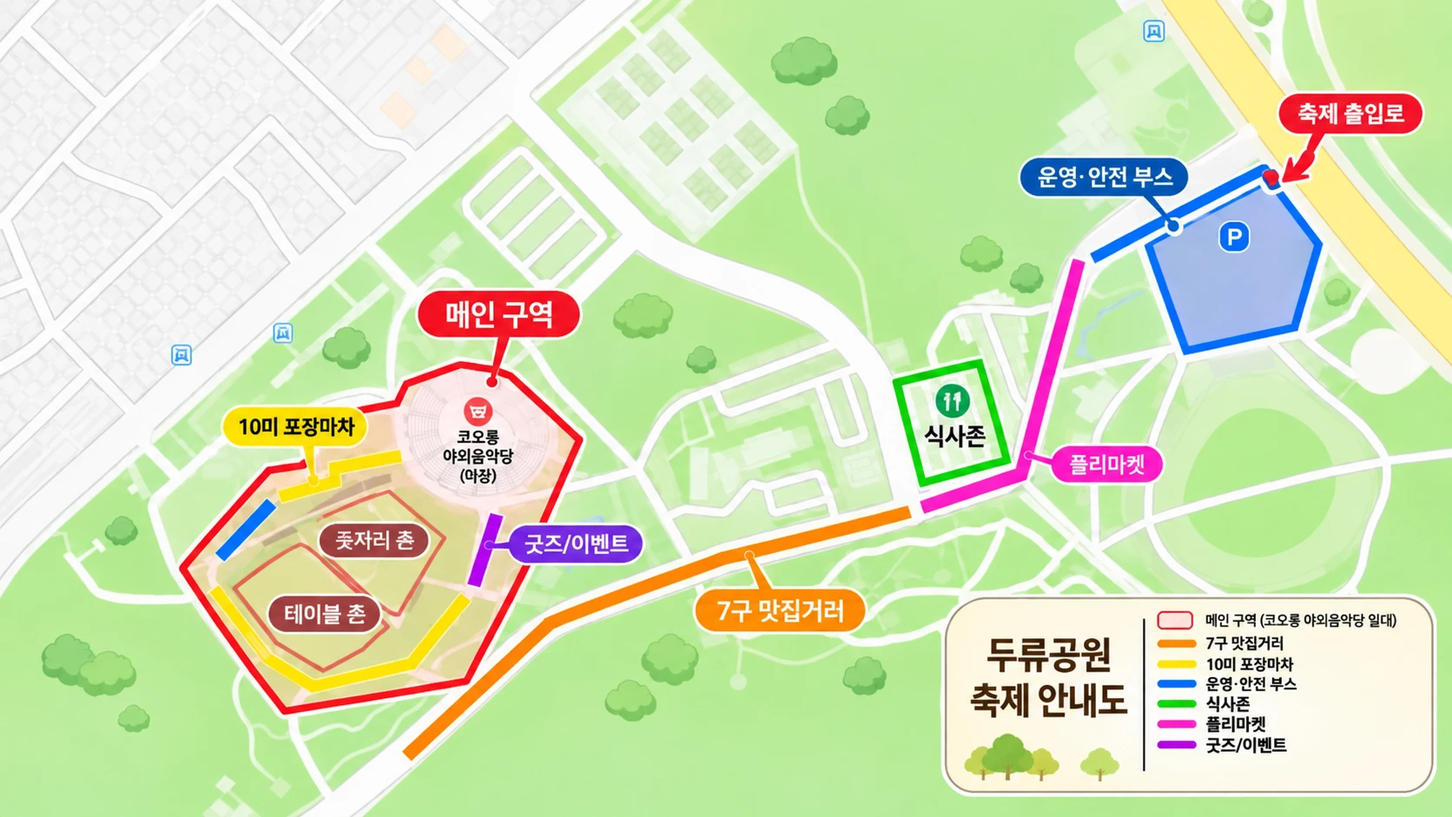
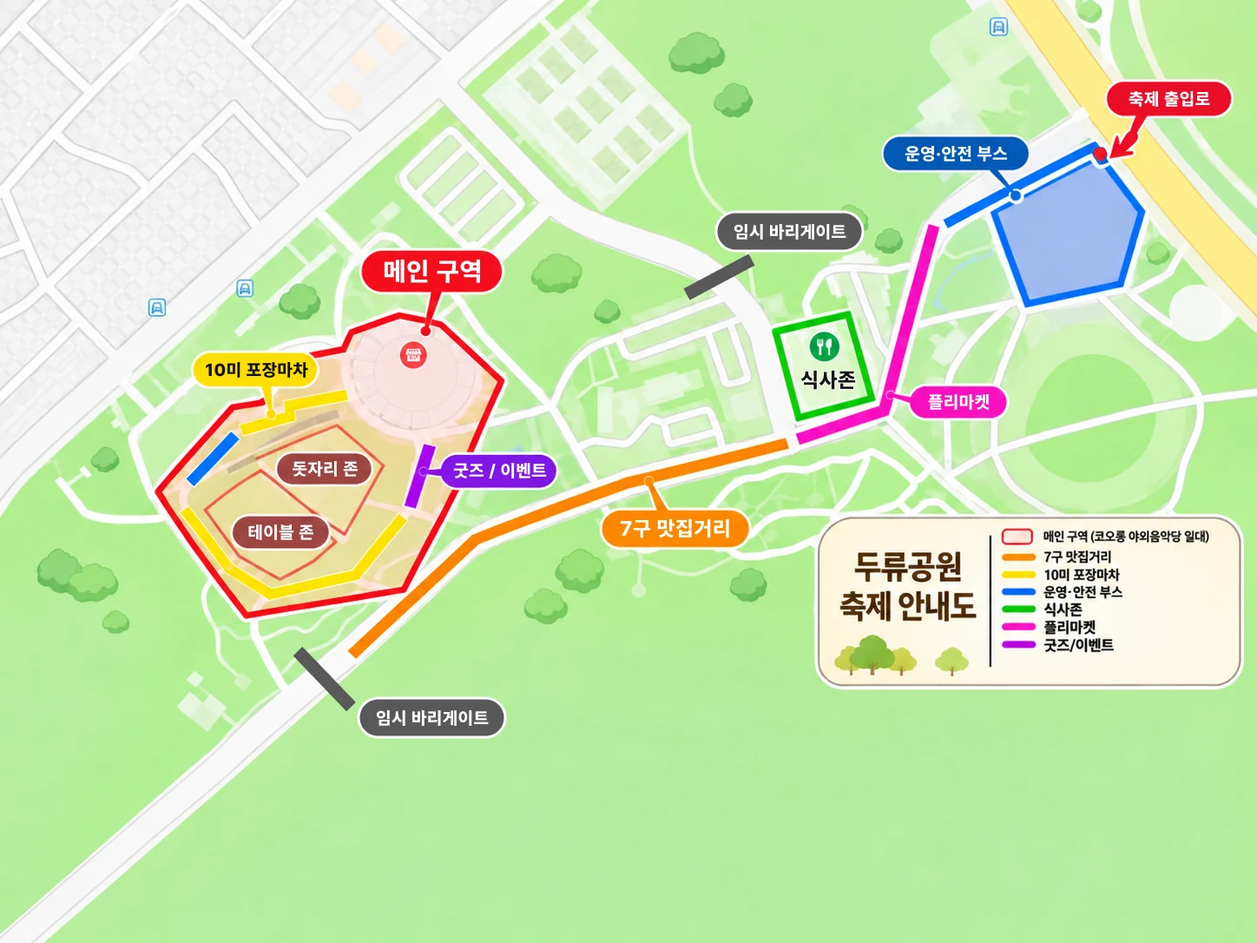
docs: P세부지침안V7 — P0-3 축제 안내도 수정본으로 교체

diff --git a/P세부지침안/P세부지침안V7/P세부지침안V7_묶음본.md b/P세부지침안/P세부지침안V7/P세부지침안V7_묶음본.md
@@ -8,6 +8,7 @@
 > ② B파트v4 반영 + 담당자 결정 — 스탬프는 축제장 안 운영 부스 이벤트(A·B·C가 각자 적립 방식), 축제장 밖은 협업 대구 가게·관광지·놀이공원 쿠폰(P0-1·P0-3·P0-6·P0-7), 쿠폰 기대효과 예측 규칙(P0-2 3-4), 식사존·굿즈 위치 B-1과 맞음·부스 수 변동 팀 승인·부스 규격·B 구역 불꽃 금지(P0-3), 업소 모집 일정 근거 B-5(P0-4), 10미·7구 수수료 규정 없음(P0-6). B-6 축제장 밖 스탬프는 P 값 유지, B파트 갱신 필요
 > ③ 담당자 결정 (2026-11-17) — 스탬프 판 완성 보상은 상품(매년 정함) + 쿠폰북(수록처는 내부 관리자가 후보 목록에서 선정), 업소 신청 사업계획서에 스탬프 활용 방안 포함 (P0-1·P0-3·P0-4·P0-6)
 > ④ A파트v3·B파트v5 반영 + 담당자 결정 (2026-11-17) — 개장 15:00 → **12:00**(팀 회의 2026-11-16 확정), 먹거리 12:00, 낮 12:00~19:00, 폐막 금·토 22:00 / **일요일만 20:00** 유지, 플리마켓은 C-5 값 15:00 유지(P0-4·P0-8·목차). B-6 축제장 밖 스탬프 폐지로 P0-1 미확정 9번 해결, B 스탬프 1회 구매당 1개, B-5 스탬프 활용 방안 반영(P0-1). E·B·C 파트 15:00 표기 갱신 필요(P0-4 7장 8~10번)
+> ⑤ 안내도 수정본 (2026-11-17) — P0-3 지도 이미지 교체: 돗자리 존·테이블 존 표기, 임시 바리게이트 2곳 추가, 주차장 P 표시 빠짐(P0-3 7장 11·15번)
 > **이전 V6 (V5와 달라진 점, 2026-11-16, 축제 이름 확정):** 축제 이름을 "대사투 페스티벌"(풀네임: 대구 사투리 토론 페스티벌)로 확정하고 표기 규칙 추가 (P0-1 2-0), 이름·큰 콘셉트는 고정하고 세부 콘셉트만 해마다 바꾸는 구조·양식과 2027 세부 콘셉트 후보 3개 추가 (P0-1 2-6, 치맥페스티벌 방식 참고), 금지 17번에 확정 이름과 줄여 쓰기 금지 반영 (P0-10). 다른 파트 변경 없음
 
 
@@ -530,13 +531,14 @@
 | 면적 | 1,589,339㎡ (두류공원 1,185,289㎡ + 이월드 404,050㎡) | 조사 | `[확인]` 대구시 공원현황 (통합본 5-1, 요약 기반) |
 | 사용 범위 | 코오롱 야외음악당 ~ 공원순환로 | 고정 | B-1 |
 
-### 2-2. 축제 지도 (팀 안내도, 2026-11-17)
+### 2-2. 축제 지도 (팀 안내도, 2026-11-17 수정본)
 
 [지도 이미지: P0-3_축제지도.webp — 노션에는 이 이미지를 따로 붙여 넣어 주세요]
 
 - 팀이 만든 **축제 전체 지도**예요. 구역 배치는 이 지도를 기준으로 해요.
 - 그림 안내도라서 **축척·실제 면적·길이는 이 지도에서 재지 않아요.** 실제 좌표·면적은 K(웹 지도)와 현장 실측(4-1)으로 채워요.
 - 지도가 바뀌면 이 파일의 지도 이미지와 2-3 표를 같이 고쳐요.
+- **수정본(2026-11-17 오후)에서 바뀐 점:** "줏자리 촌" → **돗자리 존**, "테이블 촌" → **테이블 존**, **임시 바리게이트 2곳** 표시(식사존 북서쪽 길, 7구 맛집거리 남서쪽 끝), 주차장의 **P 표시와 야외음악당 이름 글자가 빠짐** (7장 11번).
 
 ### 2-3. 사용 구역 (지도 기준)
 
@@ -544,22 +546,23 @@
 
 | 지도 색 | 구역 | 지도상 위치 | 프로그램·역할 | 최소 규모 | 담당 PART | 근거 |
 | --- | --- | --- | --- | --- | --- | --- |
-| 빨강 테두리 | **메인 구역** | 코오롱 야외음악당 일대 (지도 서쪽) | 사투리 토론 대회 메인 무대 + 아래 10미·굿즈·돗자리 존·테이블 촌을 품는 구역 | 메인 무대 1개 (무대 수는 회의 안건) | A | 안내도, A-9 |
+| 빨강 테두리 | **메인 구역** | 코오롱 야외음악당 일대 (지도 서쪽) | 사투리 토론 대회 메인 무대 + 아래 10미·굿즈·돗자리 존·테이블 존을 품는 구역 | 메인 무대 1개 (무대 수는 회의 안건) | A | 안내도, A-9 |
 | 노랑 | 10미 포장마차 | 메인 구역 안, 바깥 둘레(북서·남쪽 가장자리) | 대구 10미 포장마차 | 40동 | B | 안내도, B-1 |
-| 갈색 | 돗자리 존 (지도 이미지는 "줏자리 촌" → 수정 예정) | 메인 구역 안, 무대 앞 | 관람·휴식 (돗자리) | 확인 필요 | 확인 필요 | 안내도 |
-| 갈색 | 테이블 촌 | 메인 구역 안, 돗자리 존 남쪽 | 식음·휴식 테이블 | 확인 필요 | 확인 필요 | 안내도 |
+| 갈색 | 돗자리 존 | 메인 구역 안, 무대 앞 | 관람·휴식 (돗자리) | 확인 필요 | 확인 필요 | 안내도 |
+| 갈색 | 테이블 존 | 메인 구역 안, 돗자리 존 남쪽 | 식음·휴식 테이블 | 확인 필요 | 확인 필요 | 안내도 |
 | 보라 | 굿즈/이벤트 | 메인 구역 동쪽 가장자리 (7구 쪽) | **축제 운영진 부스로 쓸 예정** (팀 의견 2026-11-17). 굿즈 상점을 같이 둘지는 7장 7번 | 1곳 | H (굿즈는 D) | 안내도, 팀 의견, B-1 v4 |
 | 파랑 | 운영·안전 부스 | ① 축제 출입로 옆 진입 도로 ② 메인 구역 안 서쪽 | 안내·안전·응급, **스탬프 이벤트**(스탬프 판 완성 → 상품 + 쿠폰북 지급, 담당자 결정 2026-11-17) | 2곳 | H (스탬프 이벤트 담당은 7장 13번) | 안내도, 담당자 결정 |
 | 주황 | 7구 맛집거리 | 공원순환로, 메인 구역 남동쪽을 지나 식사존 앞까지 | 대구 7구 맛집거리 | 50동 + 제과점 추가 | B | 안내도, B-1 |
 | 분홍 | 플리마켓 | 7구 맛집거리 끝에서 북쪽 출입로 방향으로 이어진 길 | 소상공인 플리마켓 | 15동 (판매 12 + 체험·협업 3) | C | 안내도, C-1 |
 | 초록 | 식사존 | 7구 맛집거리·플리마켓이 만나는 곳 북쪽 | 7구 맛집거리 음식 먹는 공간 | 확인 필요 | 확인 필요 (B 관할 아님, B-1 2-1-2) | 안내도, B-1 |
 | 빨강 점 | 축제 출입로 (주 출입로) | 지도 북동쪽 큰길 쪽, 주차장 옆 | 큰 출입로. 입·퇴장 | 1곳 (보조 출입구는 7장 9번) | H | 안내도, 팀 의견 2026-11-17 |
-| (지도 표시 없음) | 비상 차량 이동로 | 지도상 **테니스장 쪽의 막아 둔 길을 열어서** 사용 (예정) | 구급·소방 차량 이동 | 1곳 | H | 팀 의견 2026-11-17 |
-| 파랑 면 | 주차장 (P) | 출입로 안쪽 | 방문객·운영 주차 | 면수 확인 안 됨 | H | 안내도 |
+| (지도 표시 없음) | 비상 차량 이동로 | 지도상 **테니스장 쪽의 막아 둔 길을 열어서** 사용 (예정). 수정본의 임시 바리게이트 ①이 그 길로 보임 `[해석]` | 구급·소방 차량 이동 | 1곳 | H | 팀 의견 2026-11-17 |
+| 회색 막대 | 임시 바리게이트 | ① 식사존 북서쪽, 테니스장 쪽으로 가는 길 ② 7구 맛집거리 남서쪽 끝 길 | 축제장 밖 차량·통행 막기. ①은 비상 차량 이동로로 열 곳으로 봄 `[해석]` | 2곳 | H | 안내도 수정본 |
+| 파랑 면 | 주차장 (이전 안내도의 P) | 출입로 안쪽 | 방문객·운영 주차. 수정본에는 P 표시가 없음 | 면수 확인 안 됨 | H | 안내도 (첫 판) |
 | **합계 (부스)** | | | | **105동 + 제과점 + 운영진 부스(굿즈/이벤트) 1곳 + 운영·안전 부스 2곳** (굿즈 상점 위치는 7장 7번) | | |
 
 - 부스 수는 **최소 기준**이에요. 첫해는 최소 규모로 시작하고, 판매·대기·방문객 데이터로 매년 조정해요 (B-1).
-- 구역의 **총 부스 수를 늘리거나 줄이려면 팀 승인**이 필요해요. 같은 총량 안에서 옮기는 재배치(예: 10미 존 안 돗자리 존 ↔ 테이블 촌)는 B 담당 확인으로 해요 (B-1 3절 6번, 2-1-3).
+- 구역의 **총 부스 수를 늘리거나 줄이려면 팀 승인**이 필요해요. 같은 총량 안에서 옮기는 재배치(예: 10미 존 안 돗자리 존 ↔ 테이블 존)는 B 담당 확인으로 해요 (B-1 3절 6번, 2-1-3).
 - 부스 규격: 음식 부스(10미·7구·제과점) 5m × 5m, 플리마켓 부스 3m × 3m (B-1 2-1-1). 통로 폭은 K 좌표 확정 뒤 정해요.
 - 구역 역할은 고정이고, 구역 안 부스 배치는 조건부로 바꿀 수 있어요 (B-1 5절).
 - "확인 필요"로 둔 칸은 7장 회의 안건이에요. 에이전트가 임의로 채우지 않아요.
@@ -590,7 +593,7 @@
 | 우리 구역 | 치맥에서 같은 곳 | 값 | 라벨·출처 |
 | --- | --- | --- | --- |
 | 메인 구역 (코오롱 야외음악당) | 코오롱 야외음악당 — 2024 '치맥 선셋 가든', 2025 '에그돔', 2026 '치상낙원 EGG섬' | 대지면적 **32,330㎡**, 고정 객석 **1,080석**, 최대 수용 **27,000명** | `[확인]` 대구문화예술회관 공식 영문 안내 (Kolon Open Air Music Hall) |
-| 메인 구역 잔디 (돗자리 존·테이블 촌) | 같은 곳 | 잔디광장 **23,141㎡(7,000평)** — 한국어 소개글은 "1만여 평"으로 달라요 | `[확인·출처 불일치]` 대구문화예술회관 영문 안내 / 한국어 관광 소개. 관리 주체에 확인 필요 |
+| 메인 구역 잔디 (돗자리 존·테이블 존) | 같은 곳 | 잔디광장 **23,141㎡(7,000평)** — 한국어 소개글은 "1만여 평"으로 달라요 | `[확인·출처 불일치]` 대구문화예술회관 영문 안내 / 한국어 관광 소개. 관리 주체에 확인 필요 |
 | 메인 구역 객석 운영 | 2026 야외음악당 1천 석 무료 좌석, 티켓링크 '무료 우선입장제' | 1,000석 | `[확인]` 2026 언론 보도 |
 | 7구 맛집거리·플리마켓 (공원순환로) | 2026 '두류공원 로드 일대' — K-치맥 스트리트, 웰컴로드, 놀이동산, 플리마켓존 | **공개 자료 없음 → 지도에서 직접 잼 (2-5-4)** | 공원 외곽 산책로 한 바퀴 약 4.5km라는 러닝 안내는 있지만 공원순환로 길이인지 불분명 `[확인 안 됨]` |
 | 7구 맛집거리 필요 길이 | — | 50동 + 제과점 × 5m = **약 255m 이상(한쪽 줄)**, 양쪽 줄이면 **약 130m** | `[추정]` B-1 부스 규격 5m × 5m, 부스 사이 간격·통로 제외 |
@@ -606,13 +609,13 @@
 | 치맥 연도 | 그늘·냉방 시설 | 위치 | 우리 구역에 대응 | 출처 |
 | --- | --- | --- | --- | --- |
 | 2017 | 쿨링포그 로드 2곳 | 위치 미기재 | 7구 맛집거리·플리마켓 길 | 뉴시스 2017-07-20 |
-| 2024 | 하와이안 아이스펍: TFS 텐트(더위·비 막음) + 실링팬 + 공조 순환구 | 2.28 주차장 (우리 미사용 구역) | 방식만 참고 → 식사존·테이블 촌 | 이코노미스트 2024-06 |
+| 2024 | 하와이안 아이스펍: TFS 텐트(더위·비 막음) + 실링팬 + 공조 순환구 | 2.28 주차장 (우리 미사용 구역) | 방식만 참고 → 식사존·테이블 존 | 이코노미스트 2024-06 |
 | 2025 | 그늘막, 쿨링포그, 살수차 / 냉방쉼터 확대 | 행사장 전체 (위치·수량 미기재) | 전 구역 | 경북매일 2025-07-01·07-03 |
-| 2025 | **에그돔**: 달걀 모양 대형 투명 돔, 가족이 시원하게 음식·음악 즐김 | **코오롱 야외음악당** | 메인 구역 (돗자리 존·테이블 촌) | 경북매일 2025-07-03 |
+| 2025 | **에그돔**: 달걀 모양 대형 투명 돔, 가족이 시원하게 음식·음악 즐김 | **코오롱 야외음악당** | 메인 구역 (돗자리 존·테이블 존) | 경북매일 2025-07-03 |
 | 2026 | **치상낙원 EGG섬**: "우천·폭염에도 쾌적하게" (2025 만족도 1위 공간) | **코오롱 야외음악당** | 메인 구역 | 2026 언론 보도 |
 | 2026 | 쿨링포그 확충, 냉방쉼터 | 2·28 자유광장과 두류공원 곳곳 | 7구·플리마켓 길, 식사존 | 2026 언론 보도 |
 
-- `[해석]` 치맥은 **야외음악당에 덮개 있는 대형 공간(에그돔·EGG섬)**을 두고, **길(로드) 쪽은 쿨링포그·그늘막**으로 대응했어요. 우리에게 옮기면: 메인 구역 돗자리 존·테이블 촌 일부를 덮개 있는 그늘·냉방 공간으로, 7구 맛집거리·플리마켓 길과 식사존은 쿨링포그·그늘막으로 하는 안이에요. **확정 아님 — 7장 3번.**
+- `[해석]` 치맥은 **야외음악당에 덮개 있는 대형 공간(에그돔·EGG섬)**을 두고, **길(로드) 쪽은 쿨링포그·그늘막**으로 대응했어요. 우리에게 옮기면: 메인 구역 돗자리 존·테이블 존 일부를 덮개 있는 그늘·냉방 공간으로, 7구 맛집거리·플리마켓 길과 식사존은 쿨링포그·그늘막으로 하는 안이에요. **확정 아님 — 7장 3번.**
 - 그늘막·쿨링포그의 수량·간격, 에그돔 크기는 찾지 못했어요.
 
 #### 2-5-3. 구역끼리 잇는 방식 (7구 맛집거리 ↔ 메인 구역)
@@ -659,7 +662,7 @@
 
 ### 4-1. 구역별 확인 항목
 
-| 확인 항목 | 굿즈/이벤트 | 메인 구역 무대 | 메인 구역 (10미·돗자리·테이블 촌) | 공원순환로 (7구·플리마켓·식사존) | 확인할 곳 |
+| 확인 항목 | 굿즈/이벤트 | 메인 구역 무대 | 메인 구역 (10미·돗자리·테이블 존) | 공원순환로 (7구·플리마켓·식사존) | 확인할 곳 |
 | --- | --- | --- | --- | --- | --- |
 | 면적·길이 | | 음악당 대지 32,330㎡ (2-5-1) | 잔디 23,141㎡ 또는 1만여 평 (불일치), 10미 둘레 길이는 지도 거리 재기 (2-5-4) | 지도 거리 재기로 먼저 채움 (2-5-4), 필요 길이 130~255m+ `[추정]` | 지도 거리 재기 → 두류공원관리소(대관·답사 때), 대구문화예술회관 |
 | 대관 조건·사용료·신청 시기 | | | | | 두류공원관리소, 코오롱 야외음악당 운영 주체 |
@@ -694,14 +697,14 @@
 | G 관광 | 교통, 숙박 이동, 시티투어 정류장 |
 | H 운영 | 수용 규모 참고값, 안전관리계획 범위, 전기·급수·차량 통제 |
 | K 웹 | 2-2 안내도와 2-3 구역 이름 (웹 지도도 같은 이름·색 사용) |
-| E 부대 프로그램 | 굿즈/이벤트 구역의 "이벤트" 내용, 돗자리·테이블 촌 낮 시간 활용 |
+| E 부대 프로그램 | 굿즈/이벤트 구역의 "이벤트" 내용, 돗자리·테이블 존 낮 시간 활용 |
 
 ## 6. 기본 지침·다른 문서와 다른 점
 
 | 항목 | 이 파일 | 다른 문서 | 처리 |
 | --- | --- | --- | --- |
 | 구역 구성 | 팀 안내도: 메인 구역·10미·7구·플리마켓·식사존·굿즈/이벤트·운영·안전 부스 (2·28 자유광장 미사용) | 기본 지침 v1.1 1장: 메인 무대·포장마차·플리마켓·휴게·그늘 4구역 | 안내도 우선. 그늘·냉방 공간은 안내도에 따로 없음 (7장 3번) |
-| 식음·휴게 공간 | 안내도에 식사존·테이블 촌·돗자리 존 있음 | B파트v5 B-1: 식사존은 확정, B 관할은 아님 ("두지 않음"은 폐기) | 안내도와 B-1이 맞음. B파트가 테이블·휴게 존을 두는 쪽으로 한 번 더 고칠 예정 → 고친 뒤 전체 점검 (7장 6번) |
+| 식음·휴게 공간 | 안내도에 식사존·테이블 존·돗자리 존 있음 | B파트v5 B-1: 식사존은 확정, B 관할은 아님 ("두지 않음"은 폐기) | 안내도와 B-1이 맞음. B파트가 테이블·휴게 존을 두는 쪽으로 한 번 더 고칠 예정 → 고친 뒤 전체 점검 (7장 6번) |
 | 굿즈/이벤트 구역 쓰임 | 운영진 부스로 쓸 예정 (팀 의견 2026-11-17) | B파트v5 B-1: 메인 구역 — 굿즈/이벤트 존 (굿즈 상점) | **다시 열림**: 굿즈 상점을 같은 곳에 둘지, 옮길지 (7장 7번) |
 | 플리마켓 위치 | 공원순환로의 7구 맛집거리와 이어진 구간 (B-1) | P0 원래 표·중간발표 2: 야외음악당 뒤 체육공원 | **해결 (2026-11-12)**: C파트v2 C-1 결정(2026-11-10)으로 공원순환로 연결 구간 확정 |
 | 포장마차·장터 위치 | 음악당 둘레·공원순환로 | 2027 03_기획안 초안: 2.28 자유광장 포장마차, 잔디광장 장터, 대구문화예술회관 실내 | 03은 P세부지침안 기준으로 업그레이드 예정 |
@@ -714,17 +717,19 @@
 | 3 | 그늘·냉방 공간 위치 | 안내도에 따로 표시 없음. 치맥 방식(2-5-2: 음악당은 덮개 있는 대형 공간, 길은 쿨링포그·그늘막)을 따를지, 수량·간격 | 팀 회의, H | 미정 |
 | 4 | 구역별 확인 항목 (4-1) | 전부 확인 안 됨 | H파트, 조사 담당 | 대관 신청 전 |
 | 5 | K 지도 문서 위치 | B-1에서도 링크 추가 필요로 표시. 웹 지도가 안내도와 같은 이름·색을 쓰는지 | K파트 담당 | 미정 |
-| 6 | 식사존·테이블 촌·돗자리 존 담당 파트 | B파트가 테이블·휴게 존을 두는 쪽으로 다시 고칠 예정. B 새 버전이 나오면 사용자가 전체 점검 요청 → 안내도·P0-3과 같은지 대조 | B 담당 → P0 담당 | B 새 버전 반영 때 |
+| 6 | 식사존·테이블 존·돗자리 존 담당 파트 | B파트가 테이블·휴게 존을 두는 쪽으로 다시 고칠 예정. B 새 버전이 나오면 사용자가 전체 점검 요청 → 안내도·P0-3과 같은지 대조 | B 담당 → P0 담당 | B 새 버전 반영 때 |
 | 7 | 굿즈/이벤트 구역 = 운영진 부스? 굿즈 상점 위치 | 팀 의견은 "운영진 부스로 쓸 것 같다"(2026-11-17). B-1 v4는 같은 곳을 굿즈 상점으로 둠. 굿즈 상점을 같이 둘지, 다른 곳(예: 주 출입로 쪽)으로 옮길지. 지도 범례 이름("굿즈/이벤트")도 바꿀지. 운영·안전 부스(파랑)와 역할 나누기 | 팀 회의, D·H 담당 | 미정 |
 | 9 | 보조 출입구·비상 차량 이동로 표시 | 주 출입로는 북동쪽 큰 출입로. 비상 차량은 테니스장 쪽 막아 둔 길을 열어 쓸 예정. 남은 것: 메인 구역(서쪽)·7구 남서쪽 끝에 보조 출입구를 둘지, 지도에 비상 이동로를 그릴지, 테니스장 쪽 길 개방 허가 | H 담당, 두류공원관리소 | 안전관리계획 전 |
 | 10 | 7구 맛집거리 ↔ 메인 구역 연결 | 치맥 도면은 구하지 않음. 안내도에 연결 구간을 그리고 갈림길 안내판을 둠 (2-5-3). 남은 것: 안내도에 그리기, 안내판 위치·문구 | 지도 담당, H·F | 다음 지도 수정 때 |
 | 14 | 공원순환로·10미 둘레 길이 | 지도 거리 재기로 대략 길이를 먼저 잼 (2-5-4). 필요 길이보다 짧으면 부스 배치 조정 | P0 담당 또는 지도 담당 → 대관 때 두류공원관리소 | 지도 거리 재기: 다음 작업 때 / 실측: 대관 신청 전 |
-| 11 | 주차장 | 안내도의 P가 방문객 주차장인지 운영 차량 전용인지, 면수 | H 담당 | 미정 |
+| 11 | 주차장 | 수정본 안내도에서 출입로 안쪽 파랑 면의 P 표시가 빠짐. 계속 주차장인지, 다른 용도(운영·안전 부스 구역 등)인지. 주차장이면 방문객용인지 운영 차량 전용인지, 면수 | 지도 담당, H 담당 | 미정 |
+| 15 | 임시 바리게이트 | 수정본에 2곳 표시. ①을 비상 차량 이동로로 여는 곳이 맞는지, ②(7구 남서쪽 끝)를 보조 출입구로 쓸지 (9번과 연결), 바리게이트 관리 인력 | H 담당, 팀 회의 | 미정 |
 | 12 | 안내도 제목 | "두류공원 축제 안내도"에 축제 이름(대사투 페스티벌)이 없음. 방문객용으로 쓸 때 이름 넣을지 | F·지도 담당 | 홍보물 제작 전 |
 | 13 | 스탬프 이벤트 위치 | 운영 부스에서 하기로 함(담당자 결정 2026-11-17). 운영·안전 부스 2곳 중 어디서 할지, 안내·응급 업무와 줄이 겹치지 않게 할지 | H 담당, 팀 회의 | 미정 |
 
 **해결된 항목 (2026-11-17)**
-- "줏자리 촌" 표기 → "돗자리 존"으로 통일. 지도 이미지는 지도 담당이 바꿀 예정
+- "줏자리 촌" 표기 → "돗자리 존"으로 통일. 지도 이미지도 수정본으로 바꿈 (2026-11-17)
+- "테이블 촌" 표기 → 수정본 안내도대로 "테이블 존"
 - 방문객 동선·사용 구역 표 → 지금 안내도 기준 그대로 둠 (팀 확인)
 - 치맥 연결 길 도면 → 구하지 않기로 함. 안내도·안내판으로 연결 (2-5-3)
 - 구역 확정 → 팀 축제 안내도(2-2) 기준으로 2-3 표를 다시 씀. 플리마켓 위치(C-1)와도 맞음
@@ -758,6 +763,7 @@
 | 2026-11-17 | v7: 치맥페스티벌 같은 구역 조사(2-5: 면적·길이, 그늘·냉방, 구역 연결) 추가, 4-1 음악당 면적·객석 채움. 팀 의견 반영: 돗자리 존 표기, 굿즈/이벤트 → 운영진 부스 예정, 주 출입로·비상 차량 이동로(테니스장 쪽), 7구↔메인 연결은 치맥 방식 참고 |
 | 2026-11-17 | v7: 팀 결정 — 치맥 도면은 구하지 않고 안내도 연결 구간·안내판·웹 지도로 연결(2-5-3), 공원순환로 길이는 지도 거리 재기 → 대관 때 실측(2-5-4), 7장 10번 줄이고 14번 추가 |
 | 2026-11-17 | v7: A파트v3·B파트v5 반영 — 출처를 A파트v3·B파트v5로 (B-1 구역 내용 변경 없음). 야간 귀가 기준 시각은 그대로 |
+| 2026-11-17 | v7: 안내도 수정본으로 지도 이미지 교체 — 돗자리 존·테이블 존 표기, 임시 바리게이트 2곳 행 추가, 주차장 P 표시 빠짐을 7장 11번에, 미확정 15번(바리게이트) 추가 |
 
 ---
 
@@ -1458,7 +1464,7 @@
 | 5. 구매·즐기기 | 낮 시간 그늘·냉방 공간, 아이 먹거리(맵지 않은 메뉴 표시), 사투리 주문 미션을 가족 놀이로, 미아 방지 | B, D, E, H |
 | 6. 공유·재방문 | 가족 사진 포토존(대키미·외지몽), 내년 알림 | D, F |
 
-**가장 막히는 단계 `[해석]`**: 5. 구매·즐기기의 **낮 시간**이에요. 축제가 12:00에 열어 한낮부터 가장 더운 낮 시간(12:00 ~ 19:00)이 이어지는데(P0-4) 핵심 경기는 저녁이고, 안내도에 식사존·테이블 촌·돗자리 존은 있지만 그늘·냉방 방식은 아직 정하지 않아 아이가 쉴 곳이 문제가 돼요 (P0-3 2-3·7장 3번).
+**가장 막히는 단계 `[해석]`**: 5. 구매·즐기기의 **낮 시간**이에요. 축제가 12:00에 열어 한낮부터 가장 더운 낮 시간(12:00 ~ 19:00)이 이어지는데(P0-4) 핵심 경기는 저녁이고, 안내도에 식사존·테이블 존·돗자리 존은 있지만 그늘·냉방 방식은 아직 정하지 않아 아이가 쉴 곳이 문제가 돼요 (P0-3 2-3·7장 3번).
 
 **근거로 쓸 수 있는 팀 자료 (가족 단위 직접 근거는 아님)**
 
@@ -1644,6 +1650,7 @@ journey_maps_v0의 감정 점수(−2~+2, 질적 표시)에서 가장 낮은 단
 | 2026-11-16 | v4 갱신: F 출처 경로를 main `세부지침안/F파트v1/`(참고자료 포함)로 고침. 내용 변경 없음 |
 | 2026-11-16 | v5: G파트v2 반영 — 6단계 축제장 밖 접점을 스탬프에서 쿠폰(G-3)으로, 메인 4유형 동선(G-2) 연결 |
 | 2026-11-17 | v7: A파트v3 반영 + 담당자 결정 — 개장 12:00에 맞춰 막히는 단계(낮 12:00~19:00)와 다음 날 오전 동선(개장 12:00 전) 수정 |
+| 2026-11-17 | v7: 안내도 수정본 표기에 맞춰 "테이블 촌" → "테이블 존" |
 
 ---
 
@@ -1889,3 +1896,4 @@ journey_maps_v0의 감정 점수(−2~+2, 질적 표시)에서 가장 낮은 단
 | 2026-11-16 | v6: 금지 17번에 확정된 축제 이름(대사투 페스티벌·풀네임)과 "줄여 쓰기" 금지를 넣음 |
 | 2026-11-17 | v7: B파트v4 대조 — 금지 목록과 겹치는 값 변경 없음(B-7 사투리 메뉴판·주문 미션 원칙 그대로). 출처만 B파트v4로 |
 | 2026-11-17 | v7: B파트v5 반영 — 출처를 B파트v5(커밋 6f3c670)로. 이 파일 값 변경 없음 |
+

diff --git a/P세부지침안/P세부지침안V7/P0-3_장소.md b/P세부지침안/P세부지침안V7/P0-3_장소.md
@@ -17,13 +17,14 @@
 | 면적 | 1,589,339㎡ (두류공원 1,185,289㎡ + 이월드 404,050㎡) | 조사 | `[확인]` 대구시 공원현황 (통합본 5-1, 요약 기반) |
 | 사용 범위 | 코오롱 야외음악당 ~ 공원순환로 | 고정 | B-1 |
 
-### 2-2. 축제 지도 (팀 안내도, 2026-11-17)
+### 2-2. 축제 지도 (팀 안내도, 2026-11-17 수정본)
 
 ![두류공원 축제 안내도 — 대사투 페스티벌 구역 배치](P0-3_축제지도.webp)
 
 - 팀이 만든 **축제 전체 지도**예요. 구역 배치는 이 지도를 기준으로 해요.
 - 그림 안내도라서 **축척·실제 면적·길이는 이 지도에서 재지 않아요.** 실제 좌표·면적은 K(웹 지도)와 현장 실측(4-1)으로 채워요.
 - 지도가 바뀌면 이 파일의 지도 이미지와 2-3 표를 같이 고쳐요.
+- **수정본(2026-11-17 오후)에서 바뀐 점:** "줏자리 촌" → **돗자리 존**, "테이블 촌" → **테이블 존**, **임시 바리게이트 2곳** 표시(식사존 북서쪽 길, 7구 맛집거리 남서쪽 끝), 주차장의 **P 표시와 야외음악당 이름 글자가 빠짐** (7장 11번).
 
 ### 2-3. 사용 구역 (지도 기준)
 
@@ -31,22 +32,23 @@
 
 | 지도 색 | 구역 | 지도상 위치 | 프로그램·역할 | 최소 규모 | 담당 PART | 근거 |
 | --- | --- | --- | --- | --- | --- | --- |
-| 빨강 테두리 | **메인 구역** | 코오롱 야외음악당 일대 (지도 서쪽) | 사투리 토론 대회 메인 무대 + 아래 10미·굿즈·돗자리 존·테이블 촌을 품는 구역 | 메인 무대 1개 (무대 수는 회의 안건) | A | 안내도, A-9 |
+| 빨강 테두리 | **메인 구역** | 코오롱 야외음악당 일대 (지도 서쪽) | 사투리 토론 대회 메인 무대 + 아래 10미·굿즈·돗자리 존·테이블 존을 품는 구역 | 메인 무대 1개 (무대 수는 회의 안건) | A | 안내도, A-9 |
 | 노랑 | 10미 포장마차 | 메인 구역 안, 바깥 둘레(북서·남쪽 가장자리) | 대구 10미 포장마차 | 40동 | B | 안내도, B-1 |
-| 갈색 | 돗자리 존 (지도 이미지는 "줏자리 촌" → 수정 예정) | 메인 구역 안, 무대 앞 | 관람·휴식 (돗자리) | 확인 필요 | 확인 필요 | 안내도 |
-| 갈색 | 테이블 촌 | 메인 구역 안, 돗자리 존 남쪽 | 식음·휴식 테이블 | 확인 필요 | 확인 필요 | 안내도 |
+| 갈색 | 돗자리 존 | 메인 구역 안, 무대 앞 | 관람·휴식 (돗자리) | 확인 필요 | 확인 필요 | 안내도 |
+| 갈색 | 테이블 존 | 메인 구역 안, 돗자리 존 남쪽 | 식음·휴식 테이블 | 확인 필요 | 확인 필요 | 안내도 |
 | 보라 | 굿즈/이벤트 | 메인 구역 동쪽 가장자리 (7구 쪽) | **축제 운영진 부스로 쓸 예정** (팀 의견 2026-11-17). 굿즈 상점을 같이 둘지는 7장 7번 | 1곳 | H (굿즈는 D) | 안내도, 팀 의견, B-1 v4 |
 | 파랑 | 운영·안전 부스 | ① 축제 출입로 옆 진입 도로 ② 메인 구역 안 서쪽 | 안내·안전·응급, **스탬프 이벤트**(스탬프 판 완성 → 상품 + 쿠폰북 지급, 담당자 결정 2026-11-17) | 2곳 | H (스탬프 이벤트 담당은 7장 13번) | 안내도, 담당자 결정 |
 | 주황 | 7구 맛집거리 | 공원순환로, 메인 구역 남동쪽을 지나 식사존 앞까지 | 대구 7구 맛집거리 | 50동 + 제과점 추가 | B | 안내도, B-1 |
 | 분홍 | 플리마켓 | 7구 맛집거리 끝에서 북쪽 출입로 방향으로 이어진 길 | 소상공인 플리마켓 | 15동 (판매 12 + 체험·협업 3) | C | 안내도, C-1 |
 | 초록 | 식사존 | 7구 맛집거리·플리마켓이 만나는 곳 북쪽 | 7구 맛집거리 음식 먹는 공간 | 확인 필요 | 확인 필요 (B 관할 아님, B-1 2-1-2) | 안내도, B-1 |
 | 빨강 점 | 축제 출입로 (주 출입로) | 지도 북동쪽 큰길 쪽, 주차장 옆 | 큰 출입로. 입·퇴장 | 1곳 (보조 출입구는 7장 9번) | H | 안내도, 팀 의견 2026-11-17 |
-| (지도 표시 없음) | 비상 차량 이동로 | 지도상 **테니스장 쪽의 막아 둔 길을 열어서** 사용 (예정) | 구급·소방 차량 이동 | 1곳 | H | 팀 의견 2026-11-17 |
-| 파랑 면 | 주차장 (P) | 출입로 안쪽 | 방문객·운영 주차 | 면수 확인 안 됨 | H | 안내도 |
+| (지도 표시 없음) | 비상 차량 이동로 | 지도상 **테니스장 쪽의 막아 둔 길을 열어서** 사용 (예정). 수정본의 임시 바리게이트 ①이 그 길로 보임 `[해석]` | 구급·소방 차량 이동 | 1곳 | H | 팀 의견 2026-11-17 |
+| 회색 막대 | 임시 바리게이트 | ① 식사존 북서쪽, 테니스장 쪽으로 가는 길 ② 7구 맛집거리 남서쪽 끝 길 | 축제장 밖 차량·통행 막기. ①은 비상 차량 이동로로 열 곳으로 봄 `[해석]` | 2곳 | H | 안내도 수정본 |
+| 파랑 면 | 주차장 (이전 안내도의 P) | 출입로 안쪽 | 방문객·운영 주차. 수정본에는 P 표시가 없음 | 면수 확인 안 됨 | H | 안내도 (첫 판) |
 | **합계 (부스)** | | | | **105동 + 제과점 + 운영진 부스(굿즈/이벤트) 1곳 + 운영·안전 부스 2곳** (굿즈 상점 위치는 7장 7번) | | |
 
 - 부스 수는 **최소 기준**이에요. 첫해는 최소 규모로 시작하고, 판매·대기·방문객 데이터로 매년 조정해요 (B-1).
-- 구역의 **총 부스 수를 늘리거나 줄이려면 팀 승인**이 필요해요. 같은 총량 안에서 옮기는 재배치(예: 10미 존 안 돗자리 존 ↔ 테이블 촌)는 B 담당 확인으로 해요 (B-1 3절 6번, 2-1-3).
+- 구역의 **총 부스 수를 늘리거나 줄이려면 팀 승인**이 필요해요. 같은 총량 안에서 옮기는 재배치(예: 10미 존 안 돗자리 존 ↔ 테이블 존)는 B 담당 확인으로 해요 (B-1 3절 6번, 2-1-3).
 - 부스 규격: 음식 부스(10미·7구·제과점) 5m × 5m, 플리마켓 부스 3m × 3m (B-1 2-1-1). 통로 폭은 K 좌표 확정 뒤 정해요.
 - 구역 역할은 고정이고, 구역 안 부스 배치는 조건부로 바꿀 수 있어요 (B-1 5절).
 - "확인 필요"로 둔 칸은 7장 회의 안건이에요. 에이전트가 임의로 채우지 않아요.
@@ -77,7 +79,7 @@
 | 우리 구역 | 치맥에서 같은 곳 | 값 | 라벨·출처 |
 | --- | --- | --- | --- |
 | 메인 구역 (코오롱 야외음악당) | 코오롱 야외음악당 — 2024 '치맥 선셋 가든', 2025 '에그돔', 2026 '치상낙원 EGG섬' | 대지면적 **32,330㎡**, 고정 객석 **1,080석**, 최대 수용 **27,000명** | `[확인]` 대구문화예술회관 공식 영문 안내 (Kolon Open Air Music Hall) |
-| 메인 구역 잔디 (돗자리 존·테이블 촌) | 같은 곳 | 잔디광장 **23,141㎡(7,000평)** — 한국어 소개글은 "1만여 평"으로 달라요 | `[확인·출처 불일치]` 대구문화예술회관 영문 안내 / 한국어 관광 소개. 관리 주체에 확인 필요 |
+| 메인 구역 잔디 (돗자리 존·테이블 존) | 같은 곳 | 잔디광장 **23,141㎡(7,000평)** — 한국어 소개글은 "1만여 평"으로 달라요 | `[확인·출처 불일치]` 대구문화예술회관 영문 안내 / 한국어 관광 소개. 관리 주체에 확인 필요 |
 | 메인 구역 객석 운영 | 2026 야외음악당 1천 석 무료 좌석, 티켓링크 '무료 우선입장제' | 1,000석 | `[확인]` 2026 언론 보도 |
 | 7구 맛집거리·플리마켓 (공원순환로) | 2026 '두류공원 로드 일대' — K-치맥 스트리트, 웰컴로드, 놀이동산, 플리마켓존 | **공개 자료 없음 → 지도에서 직접 잼 (2-5-4)** | 공원 외곽 산책로 한 바퀴 약 4.5km라는 러닝 안내는 있지만 공원순환로 길이인지 불분명 `[확인 안 됨]` |
 | 7구 맛집거리 필요 길이 | — | 50동 + 제과점 × 5m = **약 255m 이상(한쪽 줄)**, 양쪽 줄이면 **약 130m** | `[추정]` B-1 부스 규격 5m × 5m, 부스 사이 간격·통로 제외 |
@@ -93,13 +95,13 @@
 | 치맥 연도 | 그늘·냉방 시설 | 위치 | 우리 구역에 대응 | 출처 |
 | --- | --- | --- | --- | --- |
 | 2017 | 쿨링포그 로드 2곳 | 위치 미기재 | 7구 맛집거리·플리마켓 길 | 뉴시스 2017-07-20 |
-| 2024 | 하와이안 아이스펍: TFS 텐트(더위·비 막음) + 실링팬 + 공조 순환구 | 2.28 주차장 (우리 미사용 구역) | 방식만 참고 → 식사존·테이블 촌 | 이코노미스트 2024-06 |
+| 2024 | 하와이안 아이스펍: TFS 텐트(더위·비 막음) + 실링팬 + 공조 순환구 | 2.28 주차장 (우리 미사용 구역) | 방식만 참고 → 식사존·테이블 존 | 이코노미스트 2024-06 |
 | 2025 | 그늘막, 쿨링포그, 살수차 / 냉방쉼터 확대 | 행사장 전체 (위치·수량 미기재) | 전 구역 | 경북매일 2025-07-01·07-03 |
-| 2025 | **에그돔**: 달걀 모양 대형 투명 돔, 가족이 시원하게 음식·음악 즐김 | **코오롱 야외음악당** | 메인 구역 (돗자리 존·테이블 촌) | 경북매일 2025-07-03 |
+| 2025 | **에그돔**: 달걀 모양 대형 투명 돔, 가족이 시원하게 음식·음악 즐김 | **코오롱 야외음악당** | 메인 구역 (돗자리 존·테이블 존) | 경북매일 2025-07-03 |
 | 2026 | **치상낙원 EGG섬**: "우천·폭염에도 쾌적하게" (2025 만족도 1위 공간) | **코오롱 야외음악당** | 메인 구역 | 2026 언론 보도 |
 | 2026 | 쿨링포그 확충, 냉방쉼터 | 2·28 자유광장과 두류공원 곳곳 | 7구·플리마켓 길, 식사존 | 2026 언론 보도 |
 
-- `[해석]` 치맥은 **야외음악당에 덮개 있는 대형 공간(에그돔·EGG섬)**을 두고, **길(로드) 쪽은 쿨링포그·그늘막**으로 대응했어요. 우리에게 옮기면: 메인 구역 돗자리 존·테이블 촌 일부를 덮개 있는 그늘·냉방 공간으로, 7구 맛집거리·플리마켓 길과 식사존은 쿨링포그·그늘막으로 하는 안이에요. **확정 아님 — 7장 3번.**
+- `[해석]` 치맥은 **야외음악당에 덮개 있는 대형 공간(에그돔·EGG섬)**을 두고, **길(로드) 쪽은 쿨링포그·그늘막**으로 대응했어요. 우리에게 옮기면: 메인 구역 돗자리 존·테이블 존 일부를 덮개 있는 그늘·냉방 공간으로, 7구 맛집거리·플리마켓 길과 식사존은 쿨링포그·그늘막으로 하는 안이에요. **확정 아님 — 7장 3번.**
 - 그늘막·쿨링포그의 수량·간격, 에그돔 크기는 찾지 못했어요.
 
 #### 2-5-3. 구역끼리 잇는 방식 (7구 맛집거리 ↔ 메인 구역)
@@ -146,7 +148,7 @@
 
 ### 4-1. 구역별 확인 항목
 
-| 확인 항목 | 굿즈/이벤트 | 메인 구역 무대 | 메인 구역 (10미·돗자리·테이블 촌) | 공원순환로 (7구·플리마켓·식사존) | 확인할 곳 |
+| 확인 항목 | 굿즈/이벤트 | 메인 구역 무대 | 메인 구역 (10미·돗자리·테이블 존) | 공원순환로 (7구·플리마켓·식사존) | 확인할 곳 |
 | --- | --- | --- | --- | --- | --- |
 | 면적·길이 | | 음악당 대지 32,330㎡ (2-5-1) | 잔디 23,141㎡ 또는 1만여 평 (불일치), 10미 둘레 길이는 지도 거리 재기 (2-5-4) | 지도 거리 재기로 먼저 채움 (2-5-4), 필요 길이 130~255m+ `[추정]` | 지도 거리 재기 → 두류공원관리소(대관·답사 때), 대구문화예술회관 |
 | 대관 조건·사용료·신청 시기 | | | | | 두류공원관리소, 코오롱 야외음악당 운영 주체 |
@@ -181,14 +183,14 @@
 | G 관광 | 교통, 숙박 이동, 시티투어 정류장 |
 | H 운영 | 수용 규모 참고값, 안전관리계획 범위, 전기·급수·차량 통제 |
 | K 웹 | 2-2 안내도와 2-3 구역 이름 (웹 지도도 같은 이름·색 사용) |
-| E 부대 프로그램 | 굿즈/이벤트 구역의 "이벤트" 내용, 돗자리·테이블 촌 낮 시간 활용 |
+| E 부대 프로그램 | 굿즈/이벤트 구역의 "이벤트" 내용, 돗자리·테이블 존 낮 시간 활용 |
 
 ## 6. 기본 지침·다른 문서와 다른 점
 
 | 항목 | 이 파일 | 다른 문서 | 처리 |
 | --- | --- | --- | --- |
 | 구역 구성 | 팀 안내도: 메인 구역·10미·7구·플리마켓·식사존·굿즈/이벤트·운영·안전 부스 (2·28 자유광장 미사용) | 기본 지침 v1.1 1장: 메인 무대·포장마차·플리마켓·휴게·그늘 4구역 | 안내도 우선. 그늘·냉방 공간은 안내도에 따로 없음 (7장 3번) |
-| 식음·휴게 공간 | 안내도에 식사존·테이블 촌·돗자리 존 있음 | B파트v5 B-1: 식사존은 확정, B 관할은 아님 ("두지 않음"은 폐기) | 안내도와 B-1이 맞음. B파트가 테이블·휴게 존을 두는 쪽으로 한 번 더 고칠 예정 → 고친 뒤 전체 점검 (7장 6번) |
+| 식음·휴게 공간 | 안내도에 식사존·테이블 존·돗자리 존 있음 | B파트v5 B-1: 식사존은 확정, B 관할은 아님 ("두지 않음"은 폐기) | 안내도와 B-1이 맞음. B파트가 테이블·휴게 존을 두는 쪽으로 한 번 더 고칠 예정 → 고친 뒤 전체 점검 (7장 6번) |
 | 굿즈/이벤트 구역 쓰임 | 운영진 부스로 쓸 예정 (팀 의견 2026-11-17) | B파트v5 B-1: 메인 구역 — 굿즈/이벤트 존 (굿즈 상점) | **다시 열림**: 굿즈 상점을 같은 곳에 둘지, 옮길지 (7장 7번) |
 | 플리마켓 위치 | 공원순환로의 7구 맛집거리와 이어진 구간 (B-1) | P0 원래 표·중간발표 2: 야외음악당 뒤 체육공원 | **해결 (2026-11-12)**: C파트v2 C-1 결정(2026-11-10)으로 공원순환로 연결 구간 확정 |
 | 포장마차·장터 위치 | 음악당 둘레·공원순환로 | 2027 03_기획안 초안: 2.28 자유광장 포장마차, 잔디광장 장터, 대구문화예술회관 실내 | 03은 P세부지침안 기준으로 업그레이드 예정 |
@@ -201,17 +203,19 @@
 | 3 | 그늘·냉방 공간 위치 | 안내도에 따로 표시 없음. 치맥 방식(2-5-2: 음악당은 덮개 있는 대형 공간, 길은 쿨링포그·그늘막)을 따를지, 수량·간격 | 팀 회의, H | 미정 |
 | 4 | 구역별 확인 항목 (4-1) | 전부 확인 안 됨 | H파트, 조사 담당 | 대관 신청 전 |
 | 5 | K 지도 문서 위치 | B-1에서도 링크 추가 필요로 표시. 웹 지도가 안내도와 같은 이름·색을 쓰는지 | K파트 담당 | 미정 |
-| 6 | 식사존·테이블 촌·돗자리 존 담당 파트 | B파트가 테이블·휴게 존을 두는 쪽으로 다시 고칠 예정. B 새 버전이 나오면 사용자가 전체 점검 요청 → 안내도·P0-3과 같은지 대조 | B 담당 → P0 담당 | B 새 버전 반영 때 |
+| 6 | 식사존·테이블 존·돗자리 존 담당 파트 | B파트가 테이블·휴게 존을 두는 쪽으로 다시 고칠 예정. B 새 버전이 나오면 사용자가 전체 점검 요청 → 안내도·P0-3과 같은지 대조 | B 담당 → P0 담당 | B 새 버전 반영 때 |
 | 7 | 굿즈/이벤트 구역 = 운영진 부스? 굿즈 상점 위치 | 팀 의견은 "운영진 부스로 쓸 것 같다"(2026-11-17). B-1 v4는 같은 곳을 굿즈 상점으로 둠. 굿즈 상점을 같이 둘지, 다른 곳(예: 주 출입로 쪽)으로 옮길지. 지도 범례 이름("굿즈/이벤트")도 바꿀지. 운영·안전 부스(파랑)와 역할 나누기 | 팀 회의, D·H 담당 | 미정 |
 | 9 | 보조 출입구·비상 차량 이동로 표시 | 주 출입로는 북동쪽 큰 출입로. 비상 차량은 테니스장 쪽 막아 둔 길을 열어 쓸 예정. 남은 것: 메인 구역(서쪽)·7구 남서쪽 끝에 보조 출입구를 둘지, 지도에 비상 이동로를 그릴지, 테니스장 쪽 길 개방 허가 | H 담당, 두류공원관리소 | 안전관리계획 전 |
 | 10 | 7구 맛집거리 ↔ 메인 구역 연결 | 치맥 도면은 구하지 않음. 안내도에 연결 구간을 그리고 갈림길 안내판을 둠 (2-5-3). 남은 것: 안내도에 그리기, 안내판 위치·문구 | 지도 담당, H·F | 다음 지도 수정 때 |
 | 14 | 공원순환로·10미 둘레 길이 | 지도 거리 재기로 대략 길이를 먼저 잼 (2-5-4). 필요 길이보다 짧으면 부스 배치 조정 | P0 담당 또는 지도 담당 → 대관 때 두류공원관리소 | 지도 거리 재기: 다음 작업 때 / 실측: 대관 신청 전 |
-| 11 | 주차장 | 안내도의 P가 방문객 주차장인지 운영 차량 전용인지, 면수 | H 담당 | 미정 |
+| 11 | 주차장 | 수정본 안내도에서 출입로 안쪽 파랑 면의 P 표시가 빠짐. 계속 주차장인지, 다른 용도(운영·안전 부스 구역 등)인지. 주차장이면 방문객용인지 운영 차량 전용인지, 면수 | 지도 담당, H 담당 | 미정 |
+| 15 | 임시 바리게이트 | 수정본에 2곳 표시. ①을 비상 차량 이동로로 여는 곳이 맞는지, ②(7구 남서쪽 끝)를 보조 출입구로 쓸지 (9번과 연결), 바리게이트 관리 인력 | H 담당, 팀 회의 | 미정 |
 | 12 | 안내도 제목 | "두류공원 축제 안내도"에 축제 이름(대사투 페스티벌)이 없음. 방문객용으로 쓸 때 이름 넣을지 | F·지도 담당 | 홍보물 제작 전 |
 | 13 | 스탬프 이벤트 위치 | 운영 부스에서 하기로 함(담당자 결정 2026-11-17). 운영·안전 부스 2곳 중 어디서 할지, 안내·응급 업무와 줄이 겹치지 않게 할지 | H 담당, 팀 회의 | 미정 |
 
 **해결된 항목 (2026-11-17)**
-- "줏자리 촌" 표기 → "돗자리 존"으로 통일. 지도 이미지는 지도 담당이 바꿀 예정
+- "줏자리 촌" 표기 → "돗자리 존"으로 통일. 지도 이미지도 수정본으로 바꿈 (2026-11-17)
+- "테이블 촌" 표기 → 수정본 안내도대로 "테이블 존"
 - 방문객 동선·사용 구역 표 → 지금 안내도 기준 그대로 둠 (팀 확인)
 - 치맥 연결 길 도면 → 구하지 않기로 함. 안내도·안내판으로 연결 (2-5-3)
 - 구역 확정 → 팀 축제 안내도(2-2) 기준으로 2-3 표를 다시 씀. 플리마켓 위치(C-1)와도 맞음
@@ -245,3 +249,4 @@
 | 2026-11-17 | v7: 치맥페스티벌 같은 구역 조사(2-5: 면적·길이, 그늘·냉방, 구역 연결) 추가, 4-1 음악당 면적·객석 채움. 팀 의견 반영: 돗자리 존 표기, 굿즈/이벤트 → 운영진 부스 예정, 주 출입로·비상 차량 이동로(테니스장 쪽), 7구↔메인 연결은 치맥 방식 참고 |
 | 2026-11-17 | v7: 팀 결정 — 치맥 도면은 구하지 않고 안내도 연결 구간·안내판·웹 지도로 연결(2-5-3), 공원순환로 길이는 지도 거리 재기 → 대관 때 실측(2-5-4), 7장 10번 줄이고 14번 추가 |
 | 2026-11-17 | v7: A파트v3·B파트v5 반영 — 출처를 A파트v3·B파트v5로 (B-1 구역 내용 변경 없음). 야간 귀가 기준 시각은 그대로 |
+| 2026-11-17 | v7: 안내도 수정본으로 지도 이미지 교체 — 돗자리 존·테이블 존 표기, 임시 바리게이트 2곳 행 추가, 주차장 P 표시 빠짐을 7장 11번에, 미확정 15번(바리게이트) 추가 |

diff --git a/P세부지침안/P세부지침안V7/P0-8_고객페르소나.md b/P세부지침안/P세부지침안V7/P0-8_고객페르소나.md
@@ -84,7 +84,7 @@
 | 5. 구매·즐기기 | 낮 시간 그늘·냉방 공간, 아이 먹거리(맵지 않은 메뉴 표시), 사투리 주문 미션을 가족 놀이로, 미아 방지 | B, D, E, H |
 | 6. 공유·재방문 | 가족 사진 포토존(대키미·외지몽), 내년 알림 | D, F |
 
-**가장 막히는 단계 `[해석]`**: 5. 구매·즐기기의 **낮 시간**이에요. 축제가 12:00에 열어 한낮부터 가장 더운 낮 시간(12:00 ~ 19:00)이 이어지는데(P0-4) 핵심 경기는 저녁이고, 안내도에 식사존·테이블 촌·돗자리 존은 있지만 그늘·냉방 방식은 아직 정하지 않아 아이가 쉴 곳이 문제가 돼요 (P0-3 2-3·7장 3번).
+**가장 막히는 단계 `[해석]`**: 5. 구매·즐기기의 **낮 시간**이에요. 축제가 12:00에 열어 한낮부터 가장 더운 낮 시간(12:00 ~ 19:00)이 이어지는데(P0-4) 핵심 경기는 저녁이고, 안내도에 식사존·테이블 존·돗자리 존은 있지만 그늘·냉방 방식은 아직 정하지 않아 아이가 쉴 곳이 문제가 돼요 (P0-3 2-3·7장 3번).
 
 **근거로 쓸 수 있는 팀 자료 (가족 단위 직접 근거는 아님)**
 
@@ -270,3 +270,4 @@ journey_maps_v0의 감정 점수(−2~+2, 질적 표시)에서 가장 낮은 단
 | 2026-11-16 | v4 갱신: F 출처 경로를 main `세부지침안/F파트v1/`(참고자료 포함)로 고침. 내용 변경 없음 |
 | 2026-11-16 | v5: G파트v2 반영 — 6단계 축제장 밖 접점을 스탬프에서 쿠폰(G-3)으로, 메인 4유형 동선(G-2) 연결 |
 | 2026-11-17 | v7: A파트v3 반영 + 담당자 결정 — 개장 12:00에 맞춰 막히는 단계(낮 12:00~19:00)와 다음 날 오전 동선(개장 12:00 전) 수정 |
+| 2026-11-17 | v7: 안내도 수정본 표기에 맞춰 "테이블 촌" → "테이블 존" |

diff --git a/P세부지침안/동기화기록.md b/P세부지침안/동기화기록.md
@@ -52,3 +52,4 @@
 | 2026-11-17 | V7 | — (사용자 수정) | P0-3 치맥 같은 구역 조사(면적·길이·그늘·냉방·연결) 추가, 돗자리 존·운영진 부스·주 출입로·비상 차량 이동로 반영, P0-4 그늘 항목 연결 | (이번 커밋) | — |
 | 2026-11-17 | V7 | — (사용자 수정) | P0-3: 치맥 도면 대신 안내도·안내판으로 연결, 공원순환로 길이는 지도 거리 재기 → 대관 때 실측 | 695be4e | — |
 | 2026-11-17 | V7 | A파트v3, B파트v5 + 담당자 결정 | 개장 15:00 → 12:00(팀 회의 확정), 먹거리 12:00, 일요일만 20:00 폐막 유지, 플리마켓 15:00(C 값) 유지. B-6 밖 스탬프 폐지로 P0-1 9번 해결. P0-1·P0-2·P0-3·P0-4·P0-6·P0-8·P0-10·목차 수정, 미확정 3개 추가(P0-4 8~10번). 하위파트_기본목차 폴더는 파트가 아니라 제외 | (이번 커밋) | — |
+| 2026-11-17 | V7 | — (사용자 수정) | 안내도 수정본으로 P0-3 지도 이미지 교체: 돗자리 존·테이블 존, 임시 바리게이트 2곳, 주차장 P 표시 빠짐 → 미확정 11번 갱신·15번 추가. P0-3·P0-8 수정 | (이번 커밋) | — |
